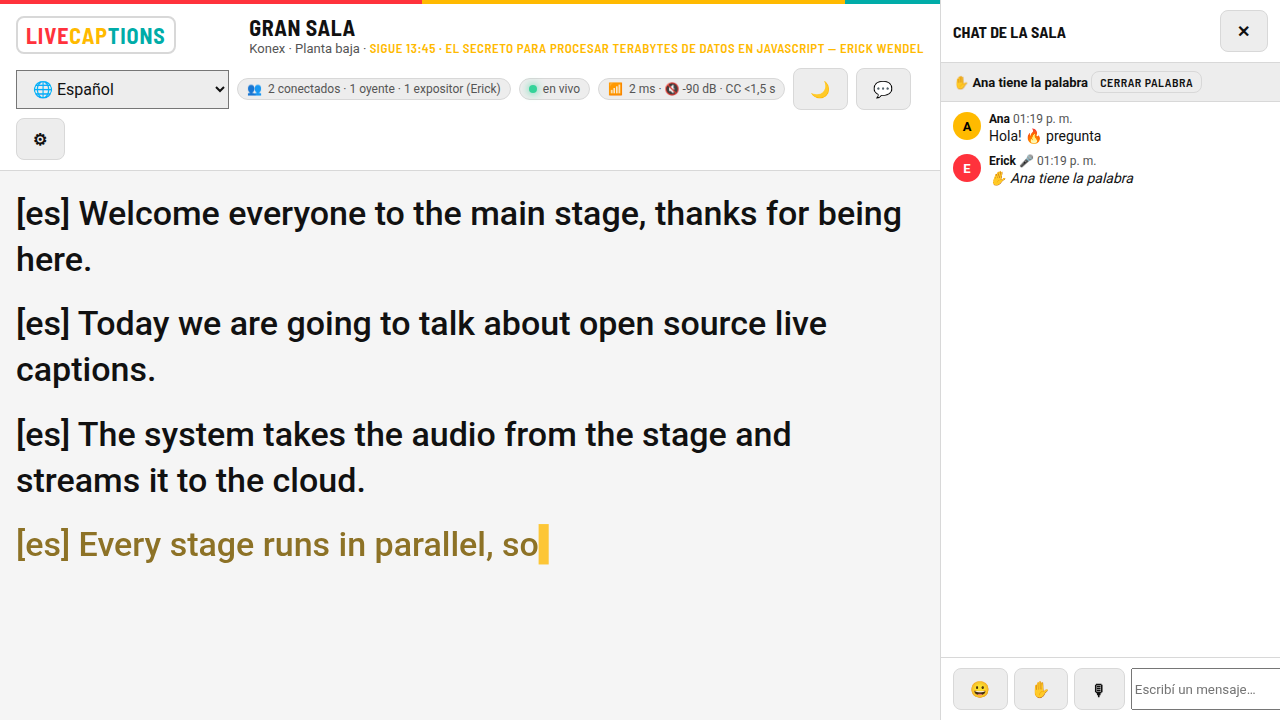
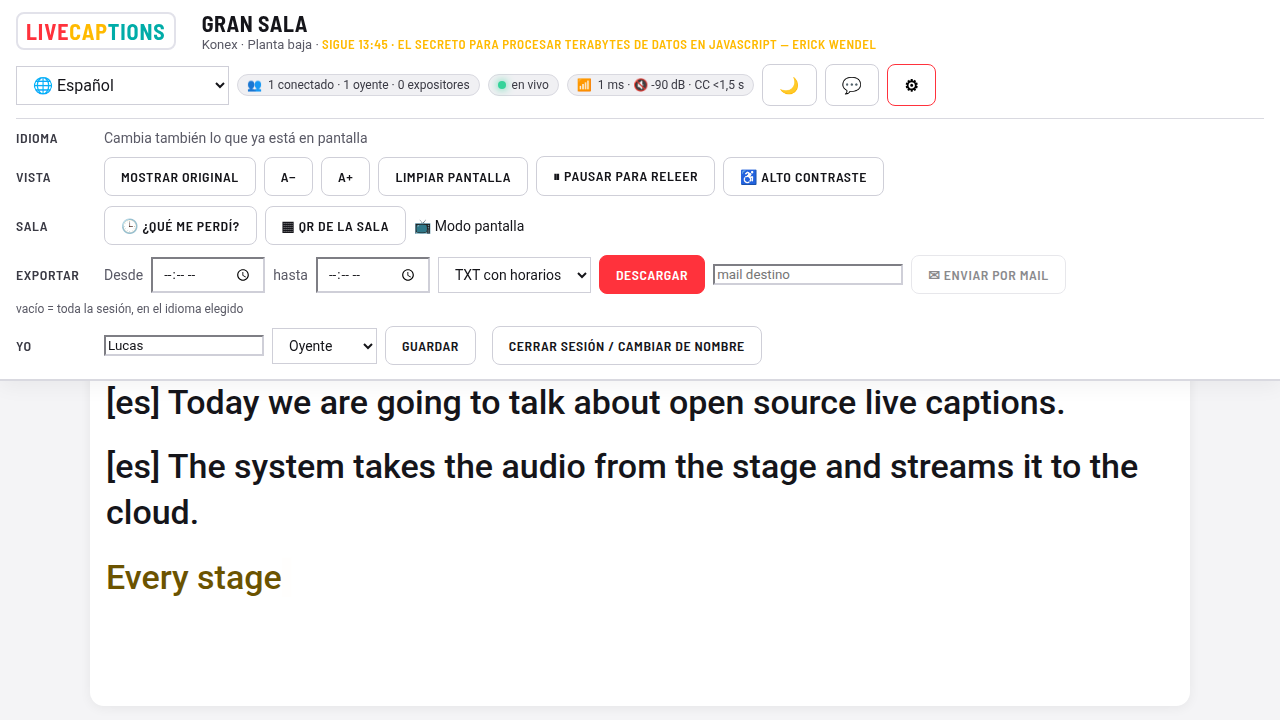
Modo día rediseñado: colores explícitos, subtítulos sobre tarjeta blanca
Claude-Session: https://claude.ai/code/session_01LKjSNWbTKmewm3SRPtReiZ

diff --git a/public/style.css b/public/style.css
@@ -131,9 +131,6 @@ body.tv .captions { --fs: 52px; padding: 30px 320px 40px 40px; min-height: 100vh
 .msg audio { width: 220px; height: 32px; margin-top: 4px; display: block; }
 .toast { position: fixed; left: 50%; bottom: 24px; transform: translateX(-50%); background: var(--yellow); color: #000; padding: 10px 16px; border-radius: 8px; font-weight: 600; z-index: 50; }
 #q { font-variant-numeric: tabular-nums; }
-:root[data-theme="light"] { --bg: #f5f5f5; --panel: #ffffff; --panel2: #ededed; --line: #d8d8d8; --text: #111111; --muted: #555555; }
-:root[data-theme="light"] .seg { color: #111; } :root[data-theme="light"] .seg.partial { color: #7a5a00; } :root[data-theme="light"] .seg .orig { color: #444; }
-:root[data-theme="light"] .btn { color: var(--text); }
 .chat-form { flex-wrap: nowrap; } .chat-form .btn { padding: 8px 10px; flex: none; } .chat-form input { min-width: 0; }
 .emojis { gap: 3px; } .emojis button { font-size: 18px; padding: 3px 5px; }
 .btn.gh { display: inline-block; margin-top: 8px; text-decoration: none; background: #24292f; color: #fff; border-color: #24292f; }
@@ -156,3 +153,25 @@ body.tv .captions { --fs: 52px; padding: 30px 320px 40px 40px; min-height: 100vh
 @media (max-width: 700px) { .brand .logo { display: none; } }
 body.with-chat .popover { right: 356px; }
 #wName.err { border-color: var(--red); }
+
+/* ---- day theme: explicit colors everywhere (no reliance on inherited dark defaults) */
+:root[data-theme="light"] { --bg: #f4f4f6; --panel: #ffffff; --panel2: #f0f0f3; --line: #d9d9e0; --text: #15151a; --muted: #5a5a66; }
+:root[data-theme="light"] body { background: var(--bg); color: var(--text); }
+:root[data-theme="light"] header.top { background: #fff; box-shadow: 0 1px 0 var(--line), 0 6px 20px rgba(0,0,0,.05); }
+:root[data-theme="light"] button.btn, :root[data-theme="light"] a.btn, :root[data-theme="light"] select.btn, :root[data-theme="light"] input.btn { background: #fff; color: var(--text); border-color: #cfcfd8; }
+:root[data-theme="light"] button.btn:hover { border-color: var(--red); }
+:root[data-theme="light"] button.btn.primary { background: var(--red); color: #fff; border-color: var(--red); }
+:root[data-theme="light"] button.btn.on, :root[data-theme="light"] #handBtn.on { color: #000; }
+:root[data-theme="light"] input[type=time].btn { color-scheme: light; }
+:root[data-theme="light"] .badge { background: #f0f0f3; color: #3a3a44; border-color: #d9d9e0; }
+:root[data-theme="light"] .captions { background: #fff; border-radius: 14px; margin: 14px auto; box-shadow: 0 2px 12px rgba(0,0,0,.06); padding-bottom: 12vh; min-height: 50vh; }
+:root[data-theme="light"] .seg { color: #15151a; }
+:root[data-theme="light"] .seg.partial { color: #6b5300; opacity: 1; }
+:root[data-theme="light"] .seg .orig { color: #5a5a66; }
+:root[data-theme="light"] .seg.waiting { color: #8a8a96; }
+:root[data-theme="light"] .panel .row > b { color: #3a3a44; }
+:root[data-theme="light"] .missed, :root[data-theme="light"] .floor, :root[data-theme="light"] .popover, :root[data-theme="light"] .chat, :root[data-theme="light"] .card { background: #fff; color: var(--text); }
+:root[data-theme="light"] .emojis button { background: #f0f0f3; }
+:root[data-theme="light"] .modal { background: rgba(20,20,30,.55); }
+:root[data-theme="light"] .logo { border-color: #e2e2ea; }
+:root[data-theme="light"] .toast { box-shadow: 0 4px 16px rgba(0,0,0,.2); }
